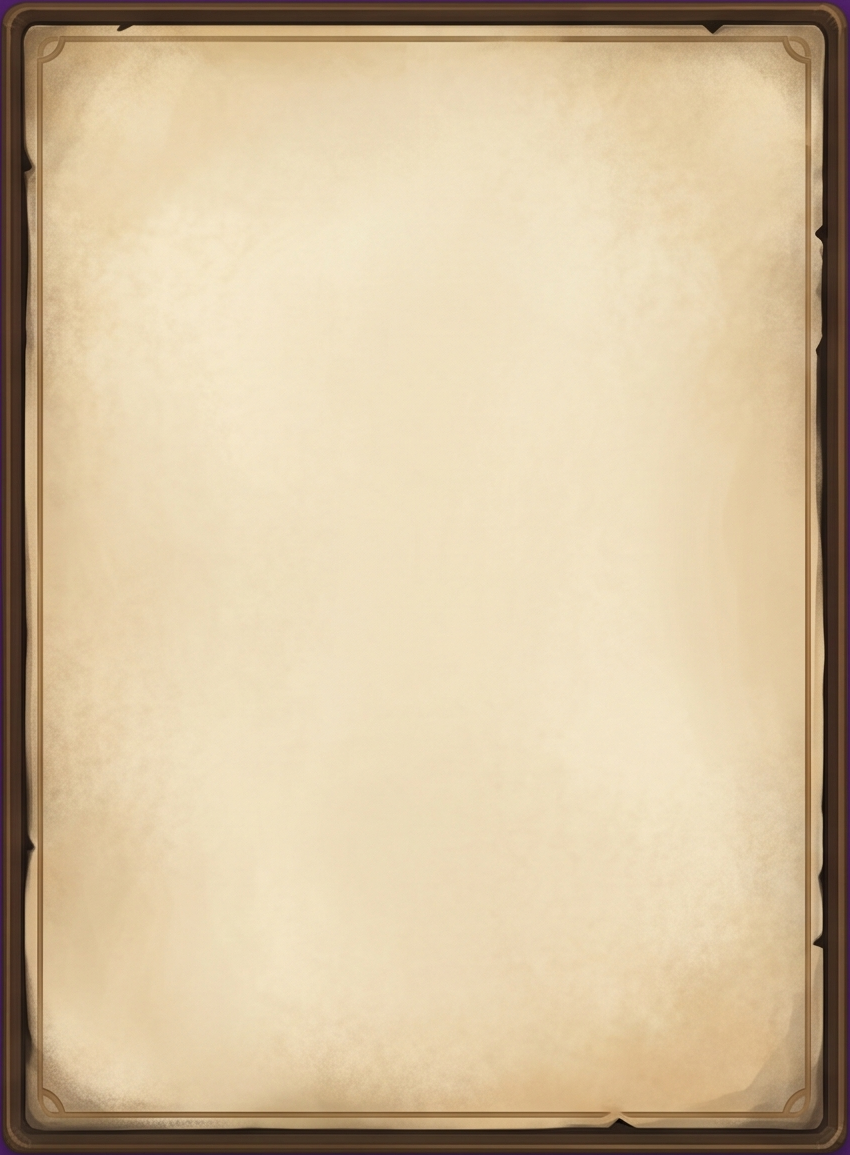
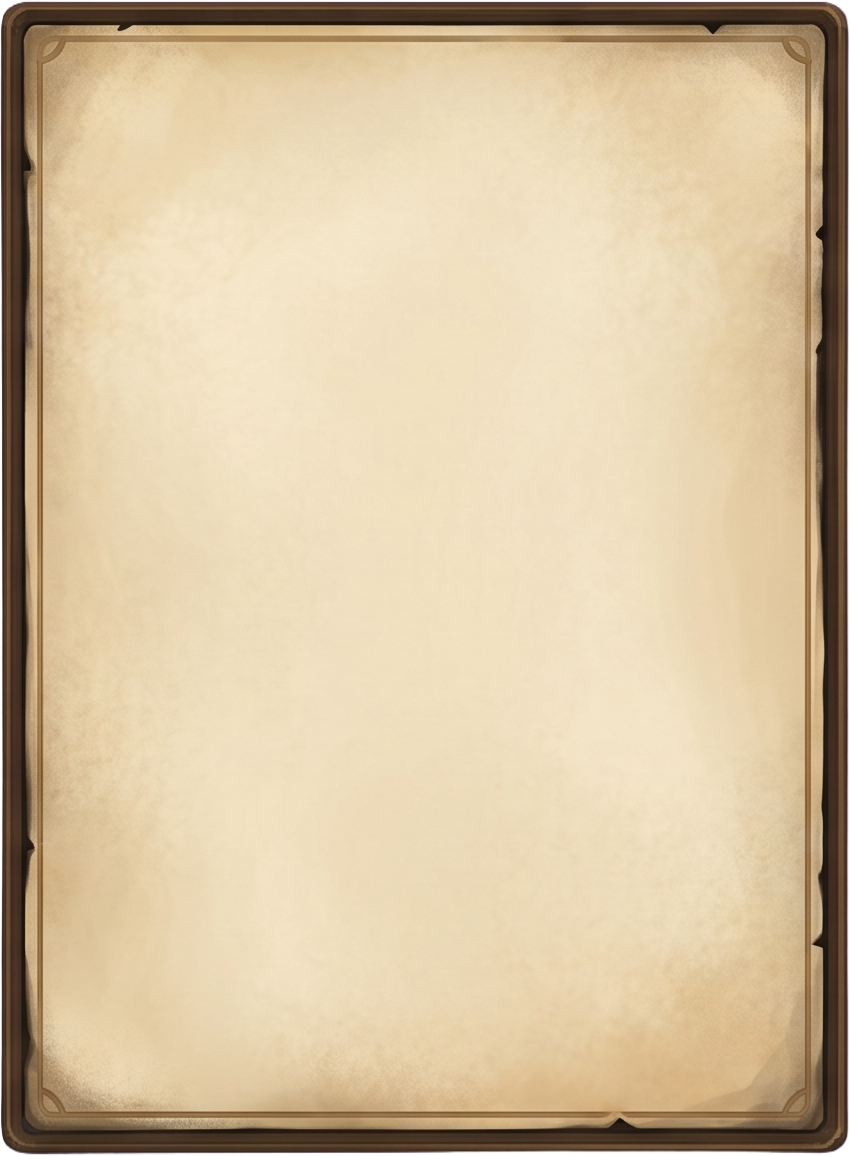
Wire baked-in chrome (BardChrome 9-slice) into the quest screens

diff --git a/src/mod/BardQuest.Mod/UI/HubScreen.cs b/src/mod/BardQuest.Mod/UI/HubScreen.cs
@@ -2,7 +2,6 @@ extern alias yargpkg;
 
 using BardQuest.Domain.Progression;
 using BardQuest.Domain.Quest;
-using BardQuest.Domain.Ratings;
 using BardQuest.Mod.Quest;
 
 using UnityEngine;
@@ -32,7 +31,7 @@ public sealed class HubScreen : IScreen
     private readonly DomainQuest _quest;
 
     private ActiveQuestView _view;
-    private List<MonsterStatus> _monsters = new();
+    private List<MonsterStatus> _monsters = [];
     private readonly VisualElement _listCol = new();
     private readonly VisualElement _detailCol = new();
     private int _selected;
@@ -59,10 +58,14 @@ public sealed class HubScreen : IScreen
         _listCol.style.width = Length.Percent(42);
         _listCol.style.marginRight = 24;
         _detailCol.style.flexGrow = 1;
-        _detailCol.style.backgroundColor = (Color)BardTheme.Mossdeep;
-        _detailCol.style.paddingTop = 20;
-        _detailCol.style.paddingLeft = 20;
-        _detailCol.style.paddingRight = 20;
+        // Size the framed panel to its content and center it vertically, rather than stretching to the full
+        // canvas height — on a non-16:9 window a full-height panel runs its bottom border off-screen.
+        _detailCol.style.alignSelf = Align.Center;
+        _detailCol.style.paddingTop = 52;
+        _detailCol.style.paddingBottom = 52;
+        _detailCol.style.paddingLeft = 60;
+        _detailCol.style.paddingRight = 60;
+        BardChrome.Panel(_detailCol, _art);
         Root.Add(_listCol);
         Root.Add(_detailCol);
 
@@ -74,8 +77,8 @@ public sealed class HubScreen : IScreen
     {
         _view = _controller.Resolve(_quest);
         _monsters = _view.AtClassBoss && _view.Boss != null
-            ? new List<MonsterStatus> { _view.Boss }
-            : new List<MonsterStatus>(_view.WorkingSet);
+            ? [_view.Boss]
+            : [.. _view.WorkingSet];
 
         // Restore the highlight to a specific monster (the one just fought), like YARG's library keeps its
         // cursor across a song. One-shot; falls back to the clamped index if that monster is gone (e.g. the
@@ -122,10 +125,16 @@ public sealed class HubScreen : IScreen
         _listCol.Add(radar);
 
         string section = _view.AtClassBoss ? "— CLASS BOSS —" : _view.AtMiniBoss ? "— ELITE —" : "— Monsters —";
-        _listCol.Add(new Label(section)
+        var sectionBanner = new VisualElement
         {
-            style = { color = (Color)BardTheme.Parchment, fontSize = 18, marginTop = 12, marginBottom = 6 },
+            style = { height = 44, marginTop = 12, marginBottom = 6, alignItems = Align.Center, justifyContent = Justify.Center },
+        };
+        BardChrome.BannerSecondary(sectionBanner, _art, 44);
+        sectionBanner.Add(new Label(section)
+        {
+            style = { color = (Color)BardTheme.Parchment, fontSize = 18, unityFontStyleAndWeight = FontStyle.Bold },
         });
+        _listCol.Add(sectionBanner);
 
         for (int i = 0; i < _monsters.Count; i++)
         {
@@ -198,7 +207,7 @@ public sealed class HubScreen : IScreen
             _preview.Stop();
             _detailCol.Add(new Label(_view.IsComplete ? "The quest is complete." : "No monsters delivered.")
             {
-                style = { color = (Color)BardTheme.Parchment, fontSize = 22 },
+                style = { color = (Color)BardTheme.Nightwood, fontSize = 22 },
             });
             return;
         }
@@ -239,11 +248,11 @@ public sealed class HubScreen : IScreen
 
         _detailCol.Add(new Label(info?.Title ?? "Unknown")
         {
-            style = { color = (Color)BardTheme.Parchment, fontSize = 24, marginTop = 12, unityTextAlign = TextAnchor.MiddleCenter },
+            style = { color = (Color)BardTheme.Nightwood, fontSize = 24, marginTop = 12, unityFontStyleAndWeight = FontStyle.Bold, unityTextAlign = TextAnchor.MiddleCenter },
         });
         _detailCol.Add(new Label(info?.Artist ?? "")
         {
-            style = { color = (Color)BardTheme.Gilt, fontSize = 16, marginBottom = 12, unityTextAlign = TextAnchor.MiddleCenter },
+            style = { color = (Color)BardTheme.OldWood, fontSize = 16, marginBottom = 12, unityTextAlign = TextAnchor.MiddleCenter },
         });
 
         foreach (Attribute a in Axes)
@@ -251,23 +260,38 @@ public sealed class HubScreen : IScreen
             _detailCol.Add(CompareBar(a, m.Profile[a], _view.Profile[a].Level));
         }
 
-        _detailCol.Add(new Label(m.Defeated ? "Already cleared" : "Confirm to FIGHT")
+        var cta = new VisualElement
         {
             style =
             {
-                color = (Color)(m.Defeated ? BardTheme.Gilt : BardTheme.Glowmoss),
-                fontSize = 22, marginTop = 16, unityTextAlign = TextAnchor.MiddleCenter,
+                width = 340, height = 68, marginTop = 20, alignSelf = Align.Center,
+                alignItems = Align.Center, justifyContent = Justify.Center,
+            },
+        };
+        BardChrome.BannerPrimary(cta, _art, 68);
+        cta.Add(new Label(m.Defeated ? "Already cleared" : "Confirm to FIGHT")
+        {
+            style =
+            {
+                color = (Color)(m.Defeated ? BardTheme.Gilt : BardTheme.Parchment),
+                fontSize = 22, unityFontStyleAndWeight = FontStyle.Bold, unityTextAlign = TextAnchor.MiddleCenter,
             },
         });
+        _detailCol.Add(cta);
     }
 
     // One axis: the song's demand (colored) over the player's current level (faint) on a 0..10 track.
     private VisualElement CompareBar(Attribute a, double songScore, int playerLevel)
     {
         var wrap = new VisualElement { style = { flexDirection = FlexDirection.Row, alignItems = Align.Center, marginTop = 4 } };
+        wrap.Add(new Image
+        {
+            image = _art.AttributeIcon(a),
+            style = { width = 22, height = 22, marginRight = 6 },
+        });
         wrap.Add(new Label(BardTheme.AxisName(a))
         {
-            style = { color = (Color)BardTheme.Parchment, fontSize = 14, width = 90 },
+            style = { color = (Color)BardTheme.OldWood, fontSize = 14, width = 68 },
         });
         var track = new VisualElement { style = { flexGrow = 1, height = 14, backgroundColor = (Color)BardTheme.Nightwood } };
         track.Add(new VisualElement
@@ -336,11 +360,11 @@ public sealed class HubScreen : IScreen
         _canvas.Pop();
     }
 
-    public NavigationScheme BuildScheme() => new(new List<NavigationScheme.Entry>
-    {
+    public NavigationScheme BuildScheme() => new(
+    [
         new(MenuAction.Up, "Menu.Common.Up", () => Move(-1)),
         new(MenuAction.Down, "Menu.Common.Down", () => Move(1)),
         new(MenuAction.Green, "Menu.Common.Confirm", Confirm),
         new(MenuAction.Red, "Menu.Common.Back", Back),
-    }, false);
+    ], false);
 }

diff --git a/src/mod/BardQuest.Mod/UI/SavesScreen.cs b/src/mod/BardQuest.Mod/UI/SavesScreen.cs
@@ -48,9 +48,14 @@ public sealed class SavesScreen : IScreen
                 alignItems = Align.Center, justifyContent = Justify.Center,
             },
         };
+        Root.Add(new Image
+        {
+            image = _art.Logo(),
+            style = { width = 400, height = 400, marginBottom = 4 },
+        });
         Root.Add(new Label("YOUR QUESTS")
         {
-            style = { color = (Color)BardTheme.Gilt, fontSize = 40, marginBottom = 24, unityFontStyleAndWeight = FontStyle.Bold },
+            style = { color = (Color)BardTheme.Gilt, fontSize = 28, marginBottom = 24, unityFontStyleAndWeight = FontStyle.Bold },
         });
 
         var row = new VisualElement { style = { flexDirection = FlexDirection.Row } };
@@ -76,18 +81,19 @@ public sealed class SavesScreen : IScreen
             style =
             {
                 width = 240, height = 320, marginLeft = 12, marginRight = 12,
-                backgroundColor = (Color)BardTheme.Mossdeep,
+                paddingTop = 22, paddingBottom = 22, paddingLeft = 22, paddingRight = 22,
                 alignItems = Align.Center, justifyContent = Justify.Center,
                 borderTopWidth = 3, borderBottomWidth = 3, borderLeftWidth = 3, borderRightWidth = 3,
             },
         };
+        BardChrome.Parchment(slot, _art);
         SetBorder(slot, BardTheme.OldWood);
 
         if (quest == null)
         {
             slot.Add(new Label("+ Create")
             {
-                style = { color = (Color)BardTheme.Parchment, fontSize = 26 },
+                style = { color = (Color)BardTheme.OldWood, fontSize = 26, unityFontStyleAndWeight = FontStyle.Bold },
             });
             return slot;
         }
@@ -100,11 +106,11 @@ public sealed class SavesScreen : IScreen
         });
         slot.Add(new Label($"{BardTheme.ClassName(view.Class)} {BardTheme.Roman(view.Subrank)}")
         {
-            style = { color = (Color)BardTheme.Gilt, fontSize = 22, marginTop = 8 },
+            style = { color = (Color)BardTheme.Nightwood, fontSize = 22, marginTop = 8, unityFontStyleAndWeight = FontStyle.Bold },
         });
         slot.Add(new Label($"{quest.Instrument} · {quest.Difficulty}")
         {
-            style = { color = (Color)BardTheme.Parchment, fontSize = 16, marginTop = 4 },
+            style = { color = (Color)BardTheme.OldWood, fontSize = 16, marginTop = 4 },
         });
         var radar = new PentagonRadar { style = { marginTop = 8 } };
         radar.SetLevels(view.Profile.Axes);

diff --git a/src/mod/BardQuest.Mod/UI/BardChrome.cs b/src/mod/BardQuest.Mod/UI/BardChrome.cs
@@ -1,0 +1,38 @@
+using UnityEngine;
+using UnityEngine.UIElements;
+
+namespace BardQuest.Mod.UI;
+
+// Applies bespoke 9-slice art as element chrome (background image + slice insets). Each inset clears the
+// source PNG's decorative corners/ends (extents measured from the art), so only the plain middle bands
+// stretch to the element. unitySliceScale renders the fixed corners at a sane on-screen size.
+public static class BardChrome
+{
+    // Ornate wood-and-leaf border over an opaque parchment interior. Source 1430x1071; the music-note
+    // corner blocks and leaf clusters reach ~210px in, so a 210px inset clears them. Scale 0.55 renders
+    // each corner ~115px; the thin wood edges become ~20-30px bands, and the parchment center stretches.
+    public static void Panel(VisualElement e, BardQuestArt art)
+        => Apply(e, art.PanelFrame(), 210, 210, 210, 210, 0.55f);
+
+    // Parchment sheet. Source 850x1155; dark border + gold rule + corner flourish within ~90px.
+    public static void Parchment(VisualElement e, BardQuestArt art)
+        => Apply(e, art.ParchmentCard(), 90, 90, 90, 90, 0.5f);
+
+    // Gold action plate. Source 1950x435; gem end-caps ~260px, gold rail ~60px. The caller's height sets
+    // the scale so the caps keep their aspect and only the middle stretches horizontally to fit.
+    public static void BannerPrimary(VisualElement e, BardQuestArt art, float height)
+        => Apply(e, art.BannerPrimary(), 260, 60, 260, 60, height / 435f);
+
+    public static void BannerSecondary(VisualElement e, BardQuestArt art, float height)
+        => Apply(e, art.BannerSecondary(), 260, 60, 260, 60, height / 435f);
+
+    private static void Apply(VisualElement e, Texture2D tex, int left, int top, int right, int bottom, float scale)
+    {
+        e.style.backgroundImage = new StyleBackground(Background.FromTexture2D(tex));
+        e.style.unitySliceLeft = left;
+        e.style.unitySliceTop = top;
+        e.style.unitySliceRight = right;
+        e.style.unitySliceBottom = bottom;
+        e.style.unitySliceScale = scale;
+    }
+}

diff --git a/src/mod/BardQuest.Mod/UI/CreateQuestScreen.cs b/src/mod/BardQuest.Mod/UI/CreateQuestScreen.cs
@@ -27,6 +27,7 @@ public sealed class CreateQuestScreen : IScreen
 
     private readonly BardQuestCanvas _canvas;
     private readonly QuestController _controller;
+    private readonly BardQuestArt _art;
     private readonly Action<DomainQuest> _openHub;
     private readonly Label[] _rowLabels = new Label[3]; // 0 pace, 1 difficulty, 2 begin
     private readonly bool _hasProfile;
@@ -36,10 +37,11 @@ public sealed class CreateQuestScreen : IScreen
 
     public VisualElement Root { get; }
 
-    public CreateQuestScreen(BardQuestCanvas canvas, QuestController controller, Action<DomainQuest> openHub)
+    public CreateQuestScreen(BardQuestCanvas canvas, QuestController controller, BardQuestArt art, Action<DomainQuest> openHub)
     {
         _canvas = canvas;
         _controller = controller;
+        _art = art;
         _openHub = openHub;
 
         RtYargProfile? profile = controller.ActiveProfile();
@@ -60,6 +62,11 @@ public sealed class CreateQuestScreen : IScreen
                 alignItems = Align.Center, justifyContent = Justify.Center,
             },
         };
+        Root.Add(new Image
+        {
+            image = _art.Logo(),
+            style = { width = 400, height = 400, marginBottom = 4 },
+        });
         Root.Add(new Label("NEW QUEST")
         {
             style = { color = (Color)BardTheme.Gilt, fontSize = 40, marginBottom = 24, unityFontStyleAndWeight = FontStyle.Bold },

diff --git a/src/mod/BardQuest.Mod/BardQuestManager.cs b/src/mod/BardQuest.Mod/BardQuestManager.cs
@@ -119,10 +119,7 @@ public sealed class BardQuestManager : MonoBehaviour
             openCreate: ShowCreate));
     }
 
-    private void ShowCreate()
-    {
-        _canvas.Push(new UI.CreateQuestScreen(_canvas, Controller, openHub: ShowHub));
-    }
+    private void ShowCreate() => _canvas.Push(new UI.CreateQuestScreen(_canvas, Controller, _art, openHub: ShowHub));
 
     private void ShowHub(DomainQuest quest) => ShowHub(quest, null);
 
